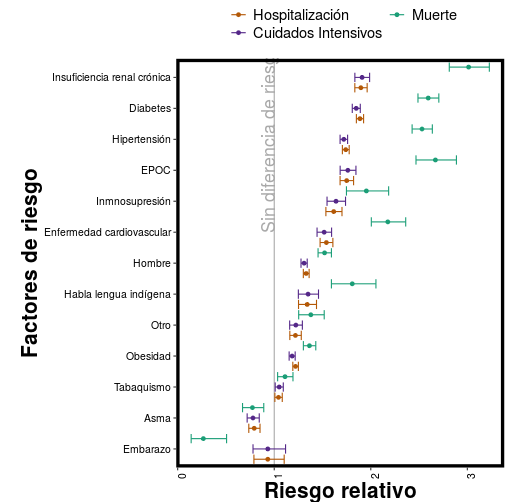
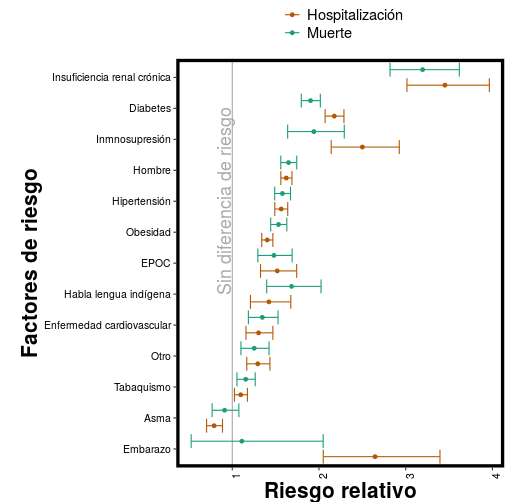
Actualizando factores de riesgo

diff --git a/clinicos/index.html b/clinicos/index.html
@@ -335,7 +335,7 @@
             <h3>¿Quién está en riesgo?</h3>
             <p class="lead">
               <p><strong>Todos estamos en riesgo</strong>. Para el 6 de mayo, 123 (14%) de las 857 mujeres, y 857 (25%) de los 1847 hombres que fallecieron por COVID-19 no tenían ninguno de los factores de riesgo reportados. Sin embargo, ciertos factores pueden hacer más probable que una persona contagiada desarrolle enfermedad grave.</p>
-<p>En México, podemos calcular el riesgo relativo de que pacientes con COVID-19 tengan que ser hospitalizados, llevados a la unidad de cuidados intensivos o que fallezcan por COVID-19. Diabetes, enfermedad pulmonar obstructiva crónica (EPOC), insuficiencia renal crónica e hipertensión son los mayores factores de riesgo. El asma no incrementa el riesgo, lo cual puede parecer raro pero hasta el momento <a href="https://www.aaaai.org/conditions-and-treatments/library/asthma-library/covid-asthma" target="_blank">no hay</a> <a href="https://time.com/5802423/coronvirus-asthma-high-risk/" target="_blank">evidencia</a> de que gente con asma tenga un mayor riesgo que los demás. Simplemente <strong>todos debemos extremar precauciones</strong>.</p>
+<p>En México, podemos calcular el riesgo relativo de que pacientes con COVID-19 tengan que ser hospitalizados o terminen falleciendo por COVID-19. Una vez que descontamos el efecto de la edad, la insuficiencia renal crónica, diabetes, inmunosupresión, obesidad y enfermedad pulmonar obstructiva crónica (EPOC) son los mayores factores de riesgo. El asma no incrementa el riesgo, lo cual puede parecer raro pero hasta el momento <a href="https://www.aaaai.org/conditions-and-treatments/library/asthma-library/covid-asthma" target="_blank">no hay</a> <a href="https://time.com/5802423/coronvirus-asthma-high-risk/" target="_blank">evidencia</a> de que gente con asma tenga un mayor riesgo que los demás. Simplemente <strong>todos debemos extremar precauciones</strong>.</p>
             </p>
               
           </div>

diff --git a/etiquetas/clínicos/index.html b/etiquetas/clínicos/index.html
@@ -335,7 +335,7 @@
             <h3>¿Quién está en riesgo?</h3>
             <p class="lead">
               <p><strong>Todos estamos en riesgo</strong>. Para el 6 de mayo, 123 (14%) de las 857 mujeres, y 857 (25%) de los 1847 hombres que fallecieron por COVID-19 no tenían ninguno de los factores de riesgo reportados. Sin embargo, ciertos factores pueden hacer más probable que una persona contagiada desarrolle enfermedad grave.</p>
-<p>En México, podemos calcular el riesgo relativo de que pacientes con COVID-19 tengan que ser hospitalizados, llevados a la unidad de cuidados intensivos o que fallezcan por COVID-19. Diabetes, enfermedad pulmonar obstructiva crónica (EPOC), insuficiencia renal crónica e hipertensión son los mayores factores de riesgo. El asma no incrementa el riesgo, lo cual puede parecer raro pero hasta el momento <a href="https://www.aaaai.org/conditions-and-treatments/library/asthma-library/covid-asthma" target="_blank">no hay</a> <a href="https://time.com/5802423/coronvirus-asthma-high-risk/" target="_blank">evidencia</a> de que gente con asma tenga un mayor riesgo que los demás. Simplemente <strong>todos debemos extremar precauciones</strong>.</p>
+<p>En México, podemos calcular el riesgo relativo de que pacientes con COVID-19 tengan que ser hospitalizados o terminen falleciendo por COVID-19. Una vez que descontamos el efecto de la edad, la insuficiencia renal crónica, diabetes, inmunosupresión, obesidad y enfermedad pulmonar obstructiva crónica (EPOC) son los mayores factores de riesgo. El asma no incrementa el riesgo, lo cual puede parecer raro pero hasta el momento <a href="https://www.aaaai.org/conditions-and-treatments/library/asthma-library/covid-asthma" target="_blank">no hay</a> <a href="https://time.com/5802423/coronvirus-asthma-high-risk/" target="_blank">evidencia</a> de que gente con asma tenga un mayor riesgo que los demás. Simplemente <strong>todos debemos extremar precauciones</strong>.</p>
             </p>
               
           </div>

diff --git a/etiquetas/estimado/index.html b/etiquetas/estimado/index.html
@@ -335,7 +335,7 @@
             <h3>¿Quién está en riesgo?</h3>
             <p class="lead">
               <p><strong>Todos estamos en riesgo</strong>. Para el 6 de mayo, 123 (14%) de las 857 mujeres, y 857 (25%) de los 1847 hombres que fallecieron por COVID-19 no tenían ninguno de los factores de riesgo reportados. Sin embargo, ciertos factores pueden hacer más probable que una persona contagiada desarrolle enfermedad grave.</p>
-<p>En México, podemos calcular el riesgo relativo de que pacientes con COVID-19 tengan que ser hospitalizados, llevados a la unidad de cuidados intensivos o que fallezcan por COVID-19. Diabetes, enfermedad pulmonar obstructiva crónica (EPOC), insuficiencia renal crónica e hipertensión son los mayores factores de riesgo. El asma no incrementa el riesgo, lo cual puede parecer raro pero hasta el momento <a href="https://www.aaaai.org/conditions-and-treatments/library/asthma-library/covid-asthma" target="_blank">no hay</a> <a href="https://time.com/5802423/coronvirus-asthma-high-risk/" target="_blank">evidencia</a> de que gente con asma tenga un mayor riesgo que los demás. Simplemente <strong>todos debemos extremar precauciones</strong>.</p>
+<p>En México, podemos calcular el riesgo relativo de que pacientes con COVID-19 tengan que ser hospitalizados o terminen falleciendo por COVID-19. Una vez que descontamos el efecto de la edad, la insuficiencia renal crónica, diabetes, inmunosupresión, obesidad y enfermedad pulmonar obstructiva crónica (EPOC) son los mayores factores de riesgo. El asma no incrementa el riesgo, lo cual puede parecer raro pero hasta el momento <a href="https://www.aaaai.org/conditions-and-treatments/library/asthma-library/covid-asthma" target="_blank">no hay</a> <a href="https://time.com/5802423/coronvirus-asthma-high-risk/" target="_blank">evidencia</a> de que gente con asma tenga un mayor riesgo que los demás. Simplemente <strong>todos debemos extremar precauciones</strong>.</p>
             </p>
               
           </div>

diff --git a/etiquetas/muertes/index.html b/etiquetas/muertes/index.html
@@ -358,7 +358,7 @@
             <h3>¿Quién está en riesgo?</h3>
             <p class="lead">
               <p><strong>Todos estamos en riesgo</strong>. Para el 6 de mayo, 123 (14%) de las 857 mujeres, y 857 (25%) de los 1847 hombres que fallecieron por COVID-19 no tenían ninguno de los factores de riesgo reportados. Sin embargo, ciertos factores pueden hacer más probable que una persona contagiada desarrolle enfermedad grave.</p>
-<p>En México, podemos calcular el riesgo relativo de que pacientes con COVID-19 tengan que ser hospitalizados, llevados a la unidad de cuidados intensivos o que fallezcan por COVID-19. Diabetes, enfermedad pulmonar obstructiva crónica (EPOC), insuficiencia renal crónica e hipertensión son los mayores factores de riesgo. El asma no incrementa el riesgo, lo cual puede parecer raro pero hasta el momento <a href="https://www.aaaai.org/conditions-and-treatments/library/asthma-library/covid-asthma" target="_blank">no hay</a> <a href="https://time.com/5802423/coronvirus-asthma-high-risk/" target="_blank">evidencia</a> de que gente con asma tenga un mayor riesgo que los demás. Simplemente <strong>todos debemos extremar precauciones</strong>.</p>
+<p>En México, podemos calcular el riesgo relativo de que pacientes con COVID-19 tengan que ser hospitalizados o terminen falleciendo por COVID-19. Una vez que descontamos el efecto de la edad, la insuficiencia renal crónica, diabetes, inmunosupresión, obesidad y enfermedad pulmonar obstructiva crónica (EPOC) son los mayores factores de riesgo. El asma no incrementa el riesgo, lo cual puede parecer raro pero hasta el momento <a href="https://www.aaaai.org/conditions-and-treatments/library/asthma-library/covid-asthma" target="_blank">no hay</a> <a href="https://time.com/5802423/coronvirus-asthma-high-risk/" target="_blank">evidencia</a> de que gente con asma tenga un mayor riesgo que los demás. Simplemente <strong>todos debemos extremar precauciones</strong>.</p>
             </p>
               
           </div>

diff --git a/etiquetas/nacional/index.html b/etiquetas/nacional/index.html
@@ -406,7 +406,7 @@
             <h3>¿Quién está en riesgo?</h3>
             <p class="lead">
               <p><strong>Todos estamos en riesgo</strong>. Para el 6 de mayo, 123 (14%) de las 857 mujeres, y 857 (25%) de los 1847 hombres que fallecieron por COVID-19 no tenían ninguno de los factores de riesgo reportados. Sin embargo, ciertos factores pueden hacer más probable que una persona contagiada desarrolle enfermedad grave.</p>
-<p>En México, podemos calcular el riesgo relativo de que pacientes con COVID-19 tengan que ser hospitalizados, llevados a la unidad de cuidados intensivos o que fallezcan por COVID-19. Diabetes, enfermedad pulmonar obstructiva crónica (EPOC), insuficiencia renal crónica e hipertensión son los mayores factores de riesgo. El asma no incrementa el riesgo, lo cual puede parecer raro pero hasta el momento <a href="https://www.aaaai.org/conditions-and-treatments/library/asthma-library/covid-asthma" target="_blank">no hay</a> <a href="https://time.com/5802423/coronvirus-asthma-high-risk/" target="_blank">evidencia</a> de que gente con asma tenga un mayor riesgo que los demás. Simplemente <strong>todos debemos extremar precauciones</strong>.</p>
+<p>En México, podemos calcular el riesgo relativo de que pacientes con COVID-19 tengan que ser hospitalizados o terminen falleciendo por COVID-19. Una vez que descontamos el efecto de la edad, la insuficiencia renal crónica, diabetes, inmunosupresión, obesidad y enfermedad pulmonar obstructiva crónica (EPOC) son los mayores factores de riesgo. El asma no incrementa el riesgo, lo cual puede parecer raro pero hasta el momento <a href="https://www.aaaai.org/conditions-and-treatments/library/asthma-library/covid-asthma" target="_blank">no hay</a> <a href="https://time.com/5802423/coronvirus-asthma-high-risk/" target="_blank">evidencia</a> de que gente con asma tenga un mayor riesgo que los demás. Simplemente <strong>todos debemos extremar precauciones</strong>.</p>
             </p>
               
           </div>

diff --git a/secciones/clínicos/index.html b/secciones/clínicos/index.html
@@ -335,7 +335,7 @@
             <h3>¿Quién está en riesgo?</h3>
             <p class="lead">
               <p><strong>Todos estamos en riesgo</strong>. Para el 6 de mayo, 123 (14%) de las 857 mujeres, y 857 (25%) de los 1847 hombres que fallecieron por COVID-19 no tenían ninguno de los factores de riesgo reportados. Sin embargo, ciertos factores pueden hacer más probable que una persona contagiada desarrolle enfermedad grave.</p>
-<p>En México, podemos calcular el riesgo relativo de que pacientes con COVID-19 tengan que ser hospitalizados, llevados a la unidad de cuidados intensivos o que fallezcan por COVID-19. Diabetes, enfermedad pulmonar obstructiva crónica (EPOC), insuficiencia renal crónica e hipertensión son los mayores factores de riesgo. El asma no incrementa el riesgo, lo cual puede parecer raro pero hasta el momento <a href="https://www.aaaai.org/conditions-and-treatments/library/asthma-library/covid-asthma" target="_blank">no hay</a> <a href="https://time.com/5802423/coronvirus-asthma-high-risk/" target="_blank">evidencia</a> de que gente con asma tenga un mayor riesgo que los demás. Simplemente <strong>todos debemos extremar precauciones</strong>.</p>
+<p>En México, podemos calcular el riesgo relativo de que pacientes con COVID-19 tengan que ser hospitalizados o terminen falleciendo por COVID-19. Una vez que descontamos el efecto de la edad, la insuficiencia renal crónica, diabetes, inmunosupresión, obesidad y enfermedad pulmonar obstructiva crónica (EPOC) son los mayores factores de riesgo. El asma no incrementa el riesgo, lo cual puede parecer raro pero hasta el momento <a href="https://www.aaaai.org/conditions-and-treatments/library/asthma-library/covid-asthma" target="_blank">no hay</a> <a href="https://time.com/5802423/coronvirus-asthma-high-risk/" target="_blank">evidencia</a> de que gente con asma tenga un mayor riesgo que los demás. Simplemente <strong>todos debemos extremar precauciones</strong>.</p>
             </p>
               
           </div>

diff --git a/clinicos/riesgos_relativos/index.html b/clinicos/riesgos_relativos/index.html
@@ -328,7 +328,7 @@
           <h2>¿Quién está en riesgo?</h2>
           <p class="lead">
             <p><strong>Todos estamos en riesgo</strong>. Para el 6 de mayo, 123 (14%) de las 857 mujeres, y 857 (25%) de los 1847 hombres que fallecieron por COVID-19 no tenían ninguno de los factores de riesgo reportados. Sin embargo, ciertos factores pueden hacer más probable que una persona contagiada desarrolle enfermedad grave.</p>
-<p>En México, podemos calcular el riesgo relativo de que pacientes con COVID-19 tengan que ser hospitalizados, llevados a la unidad de cuidados intensivos o que fallezcan por COVID-19. Diabetes, enfermedad pulmonar obstructiva crónica (EPOC), insuficiencia renal crónica e hipertensión son los mayores factores de riesgo. El asma no incrementa el riesgo, lo cual puede parecer raro pero hasta el momento <a href="https://www.aaaai.org/conditions-and-treatments/library/asthma-library/covid-asthma" target="_blank">no hay</a> <a href="https://time.com/5802423/coronvirus-asthma-high-risk/" target="_blank">evidencia</a> de que gente con asma tenga un mayor riesgo que los demás. Simplemente <strong>todos debemos extremar precauciones</strong>.</p>
+<p>En México, podemos calcular el riesgo relativo de que pacientes con COVID-19 tengan que ser hospitalizados o terminen falleciendo por COVID-19. Una vez que descontamos el efecto de la edad, la insuficiencia renal crónica, diabetes, inmunosupresión, obesidad y enfermedad pulmonar obstructiva crónica (EPOC) son los mayores factores de riesgo. El asma no incrementa el riesgo, lo cual puede parecer raro pero hasta el momento <a href="https://www.aaaai.org/conditions-and-treatments/library/asthma-library/covid-asthma" target="_blank">no hay</a> <a href="https://time.com/5802423/coronvirus-asthma-high-risk/" target="_blank">evidencia</a> de que gente con asma tenga un mayor riesgo que los demás. Simplemente <strong>todos debemos extremar precauciones</strong>.</p>
           </p>
             
         </div>
